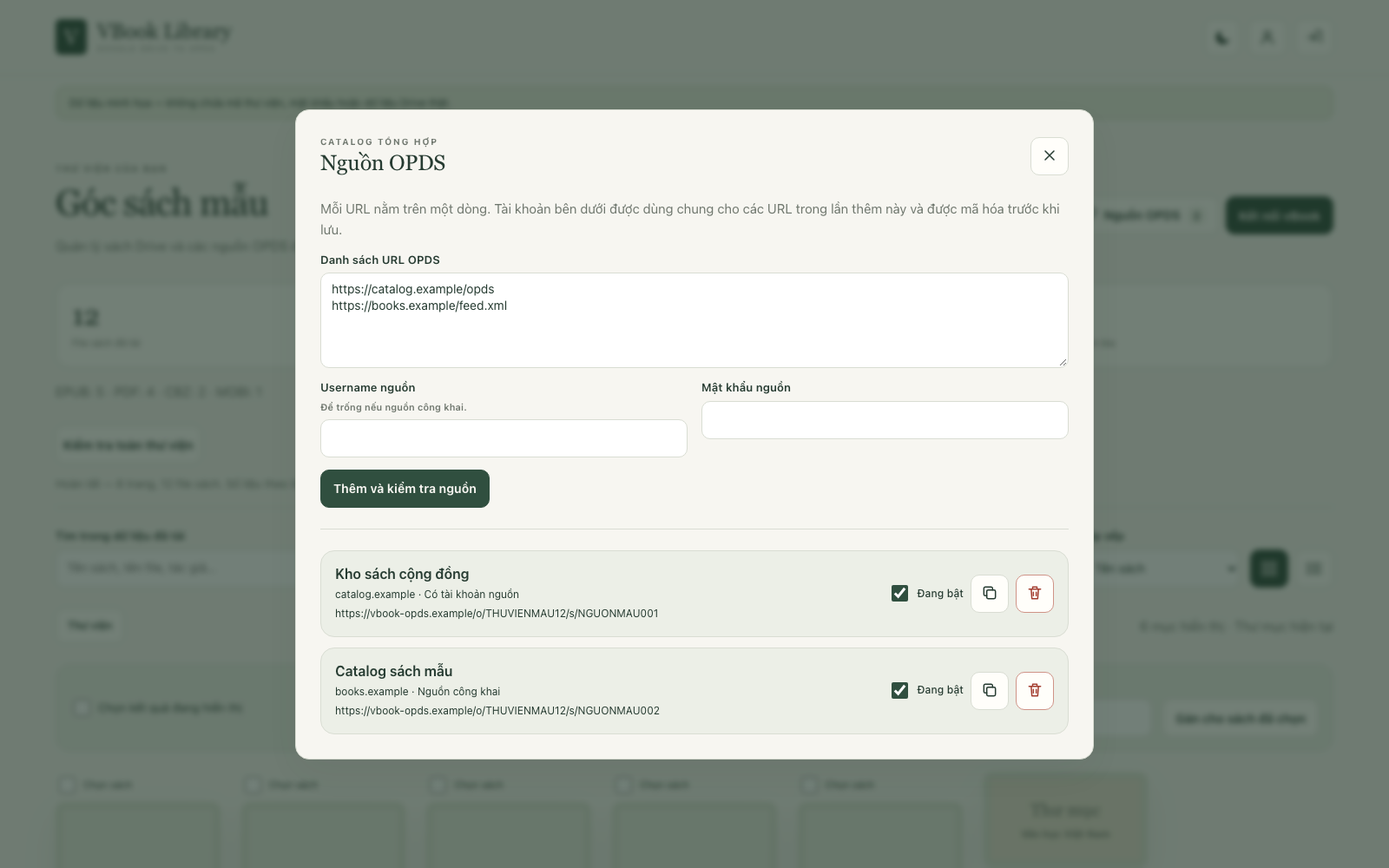
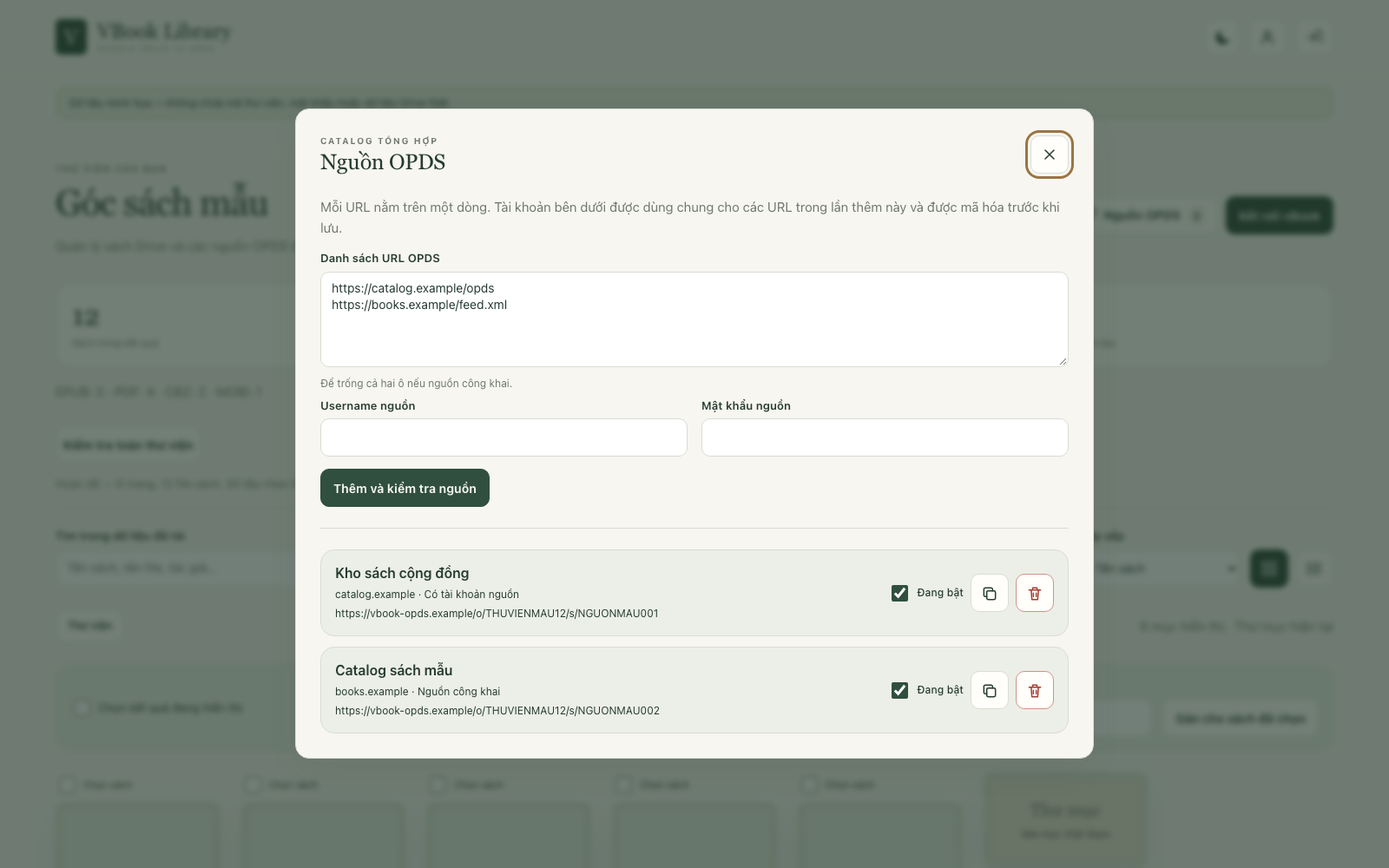
feat: scan books from linked OPDS catalogs

diff --git a/src/library-client.ts b/src/library-client.ts
@@ -66,17 +66,17 @@ function fillFilters(){
 }
 function render(){
  const all=[...source().values()],books=all.filter(b=>!b.isFolder),list=filtered();
- const counts=[['File sách đã tải',books.length],['Định dạng',new Set(books.map(b=>b.format)).size],['Chưa có ngôn ngữ',books.filter(b=>!b.language).length],['Chưa có nguồn bìa',books.filter(b=>!b.coverUrl).length]];
+ const counts=[['Sách trong kết quả',books.length],['Định dạng',new Set(books.map(b=>b.format)).size],['Chưa có ngôn ngữ',books.filter(b=>!b.language).length],['Chưa có nguồn bìa',books.filter(b=>!b.coverUrl).length]];
  $('#stats').innerHTML=counts.map(([label,count])=>'<div class="stat"><strong>'+count.toLocaleString('vi')+'</strong><span>'+label+'</span></div>').join('');
  const formats={};books.forEach(b=>formats[b.format]=(formats[b.format]||0)+1);$('#formats').textContent=Object.entries(formats).map(([k,v])=>k+': '+v).join(' · ');
  $('#result-count').textContent=list.length+' mục hiển thị · '+(scanMode?(scanComplete?'Toàn thư viện, theo lần quét vừa xong':'Kết quả quét chưa đầy đủ'):'Thư mục hiện tại, dữ liệu đã tải');
  $('#breadcrumbs').innerHTML='<button data-crumb="-1">Thư viện</button>'+(scanMode?'<span>/ Kết quả quét</span>':trail.map((t,i)=>'<span>/</span><button data-crumb="'+i+'">'+escapeHtml(t.title)+'</button>').join(''));
- if(!list.length)$('#items').innerHTML='<div class="empty">'+(busy?'Đang lấy danh sách từ Drive…':'Chưa có mục phù hợp. Thử thay đổi bộ lọc hoặc tải thêm dữ liệu.')+'</div>';
- else if(view==='grid')$('#items').innerHTML='<div class="books">'+list.map(b=>'<article class="book '+(b.isFolder?'folder':'')+'">'+(!b.isFolder?'<label class="check"><input type="checkbox" data-select="'+b.key+'" '+(selected.has(b.key)?'checked':'')+'> Chọn sách</label>':'')+'<button class="book-open" data-open="'+b.key+'">'+coverMarkup(b)+'<span class="book-title">'+escapeHtml(b.title)+'</span></button><div class="book-author">'+escapeHtml(b.author|| (b.isFolder?'Mở thư mục':'Chưa có tác giả'))+'</div>'+(!b.isFolder?'<div class="book-meta"><span class="badge">'+escapeHtml(b.format)+'</span><span>'+escapeHtml(langName(b.language))+'</span><span>'+sizeName(b.size)+'</span></div>':'')+'</article>').join('')+'</div>';
- else $('#items').innerHTML='<div class="table-wrap"><table><thead><tr><th>Chọn</th><th>Tên sách / mã mục</th><th>Ngôn ngữ</th><th>Định dạng</th><th>Dung lượng</th><th></th></tr></thead><tbody>'+list.map(b=>'<tr><td>'+(!b.isFolder?'<input aria-label="Chọn '+escapeHtml(b.title)+'" type="checkbox" data-select="'+b.key+'" '+(selected.has(b.key)?'checked':'')+'>':'')+'</td><td><div class="table-title">'+(b.coverUrl?'<img class="thumb" alt="" src="'+escapeHtml(b.coverUrl)+'" referrerpolicy="no-referrer" loading="lazy">':'')+'<div><button data-open="'+b.key+'">'+escapeHtml(b.title)+'</button><small>'+escapeHtml(b.author)+'</small><small>'+escapeHtml(b.key)+'</small></div></div></td><td>'+escapeHtml(b.isFolder?'—':langName(b.language))+'</td><td>'+escapeHtml(b.isFolder?'Thư mục':b.format)+'</td><td>'+sizeName(b.size)+'</td><td><button data-open="'+b.key+'">'+(b.isFolder?'Mở':'Sửa')+'</button></td></tr>').join('')+'</tbody></table></div>';
+ if(!list.length)$('#items').innerHTML='<div class="empty">'+(busy?'Đang lấy danh sách nguồn…':'Chưa có mục phù hợp. Thử thay đổi bộ lọc hoặc quét lại các nguồn.')+'</div>';
+ else if(view==='grid')$('#items').innerHTML='<div class="books">'+list.map(b=>'<article class="book '+(b.isFolder?'folder':'')+'">'+(!b.isFolder&&!b.external?'<label class="check"><input type="checkbox" data-select="'+b.key+'" '+(selected.has(b.key)?'checked':'')+'> Chọn sách</label>':b.external?'<span class="external-label">OPDS</span>':'')+'<button class="book-open" data-open="'+b.key+'">'+coverMarkup(b)+'<span class="book-title">'+escapeHtml(b.title)+'</span></button><div class="book-author">'+escapeHtml(b.author||b.sourceName|| (b.isFolder?'Mở thư mục':'Chưa có tác giả'))+'</div>'+(!b.isFolder?'<div class="book-meta"><span class="badge">'+escapeHtml(b.format)+'</span><span>'+escapeHtml(langName(b.language))+'</span><span>'+sizeName(b.size)+'</span></div>':'')+'</article>').join('')+'</div>';
+ else $('#items').innerHTML='<div class="table-wrap"><table><thead><tr><th>Chọn</th><th>Tên sách / mã mục</th><th>Ngôn ngữ</th><th>Định dạng</th><th>Dung lượng</th><th></th></tr></thead><tbody>'+list.map(b=>'<tr><td>'+(!b.isFolder&&!b.external?'<input aria-label="Chọn '+escapeHtml(b.title)+'" type="checkbox" data-select="'+b.key+'" '+(selected.has(b.key)?'checked':'')+'>':b.external?'<span class="badge">OPDS</span>':'')+'</td><td><div class="table-title">'+(b.coverUrl?'<img class="thumb" alt="" src="'+escapeHtml(b.coverUrl)+'" referrerpolicy="no-referrer" loading="lazy">':'')+'<div><button data-open="'+b.key+'">'+escapeHtml(b.title)+'</button><small>'+escapeHtml(b.author||b.sourceName)+'</small><small>'+escapeHtml(b.key)+'</small></div></div></td><td>'+escapeHtml(b.isFolder?'—':langName(b.language))+'</td><td>'+escapeHtml(b.isFolder?'Thư mục':b.format)+'</td><td>'+sizeName(b.size)+'</td><td><button data-open="'+b.key+'">'+(b.isFolder?'Mở':b.external?'Nguồn OPDS':'Sửa')+'</button></td></tr>').join('')+'</tbody></table></div>';
  attachImageFallback($('#items'));$('#load-more').hidden=scanMode||!nextCursor;$('#load-more').disabled=busy;
  $('#selected-count').textContent=selected.size+' đã chọn';$('#bulk-apply').disabled=!selected.size||busy;
- const visibleBooks=list.filter(b=>!b.isFolder);$('#select-all').checked=visibleBooks.length>0&&visibleBooks.every(b=>selected.has(b.key));
+ const visibleBooks=list.filter(b=>!b.isFolder&&!b.external);$('#select-all').checked=visibleBooks.length>0&&visibleBooks.every(b=>selected.has(b.key));
  $('#select-all').indeterminate=visibleBooks.some(b=>selected.has(b.key))&&!$('#select-all').checked;
 }
 async function browse(append){
@@ -96,14 +96,14 @@ async function scanLoop(){
  try{
   while(epoch===scanEpoch&&scanRunning&&scanQueue.length&&library&&library.id===currentLibrary){
    const job=scanQueue[0];scanController=new AbortController();
-   const data=await api(endpoint('/scan'),'POST',{...(job.ref?{folder:job.ref}:{}),...(job.cursor?{cursor:job.cursor}:{})},scanController.signal);
+   const data=await api(endpoint('/scan'),'POST',{...(job.sourceId?{sourceId:job.sourceId}:{}),...(job.ref?(job.sourceId?{target:job.ref}:{folder:job.ref}):{}),...(job.cursor?{cursor:job.cursor}:{})},scanController.signal);
    if(epoch!==scanEpoch||!scanRunning||!library||library.id!==currentLibrary)break;
    scanSeen.add(data.folderKey);scanQueue.shift();scanPages++;
    data.items.forEach(b=>{
-    if(b.isFolder){if(!scanSeen.has(b.key)){scanSeen.add(b.key);scanQueue.push({ref:b.ref});}}
+    if(b.isFolder){if(!scanSeen.has(b.key)){scanSeen.add(b.key);scanQueue.push({ref:b.ref,...(b.sourceId?{sourceId:b.sourceId}:{})});}}
     else scanItems.set(b.key,b);
    });
-   if(data.nextCursor)scanQueue.unshift({ref:job.ref,cursor:data.nextCursor});
+   if(data.nextCursor)scanQueue.unshift({...job,cursor:data.nextCursor});
    scanComplete=scanQueue.length===0;
    $('#scan-status').textContent=(scanComplete?'Hoàn tất — ':'Đang quét — ')+scanPages+' trang, '+scanItems.size+' file sách. '+(scanComplete?'Số liệu theo lần quét này; tải lại trang sẽ cần quét lại.':scanQueue.length+' lượt thư mục/trang còn chờ.');
    if(scanMode){fillFilters();render();}scanControls();
@@ -114,6 +114,7 @@ async function scanLoop(){
 function openBook(key){
  const b=source().get(key);if(!b)return;
  if(b.isFolder){pauseScan();trail.push({title:b.title,ref:b.ref});browse(false);return;}
+ if(b.external){notice('Sách này thuộc nguồn OPDS “'+(b.sourceName||'bên ngoài')+'”. Metadata được đọc từ nguồn và không chỉnh sửa tại đây.');return;}
  editing=b;const f=$('#edit-form');f.reset();['title','author','language','category','description','coverUrl'].forEach(k=>f.elements[k].value=b.overrides[k]||'');f.elements.title.placeholder=b.name;
  $('#edit-source').textContent=b.name+' · '+b.format+' · '+sizeName(b.size);$('#edit-error').textContent='';previewCover();$('#editor').showModal();
 }
@@ -153,10 +154,10 @@ $('#source-list').addEventListener('change',async event=>{const input=event.targ
 $('#search').addEventListener('input',render);['language','format','sort'].forEach(id=>$('#'+id).addEventListener('change',render));
 ['grid','table'].forEach(mode=>$('#view-'+mode).addEventListener('click',()=>{view=mode;['grid','table'].forEach(m=>$('#view-'+m).setAttribute('aria-pressed',String(m===mode)));render();}));
 $('#load-more').addEventListener('click',()=>{if(!busy)browse(true);});$('#reload-folder').addEventListener('click',()=>{pauseScan();trail=[];browse(false);});
-$('#scan-start').addEventListener('click',()=>{if(scanPages&&!confirm('Quét lại toàn thư viện từ đầu?'))return;scanItems.clear();scanSeen.clear();scanQueue=[{}];scanPages=0;scanComplete=false;scanLoop();});
+$('#scan-start').addEventListener('click',()=>{if(scanPages&&!confirm('Quét lại toàn thư viện từ đầu?'))return;scanItems.clear();scanSeen.clear();scanQueue=[...(library.hasDrive?[{}]:[]),...sources.filter(source=>source.enabled).map(source=>({sourceId:source.id}))];scanPages=0;scanComplete=false;if(!scanQueue.length){$('#scan-status').textContent='Chưa có nguồn Drive hoặc OPDS đang bật để quét.';return;}scanLoop();});
 $('#scan-pause').addEventListener('click',()=>{pauseScan();$('#scan-status').textContent='Đã tạm dừng. Kết quả chưa đầy đủ; có thể tiếp tục trong phiên trang này.';});$('#scan-resume').addEventListener('click',scanLoop);
 $('#scan-results').addEventListener('click',()=>{requestEpoch++;busy=false;scanMode=true;selected.clear();fillFilters();render();});
-$('#select-all').addEventListener('change',event=>{filtered().filter(b=>!b.isFolder).forEach(b=>event.target.checked?selected.add(b.key):selected.delete(b.key));render();});
+$('#select-all').addEventListener('change',event=>{filtered().filter(b=>!b.isFolder&&!b.external).forEach(b=>event.target.checked?selected.add(b.key):selected.delete(b.key));render();});
 $('#bulk-apply').addEventListener('click',async()=>{
  const books=[...selected].map(k=>source().get(k)).filter(Boolean);if(!books.length)return;busy=true;render();let done=0;
  try{for(let i=0;i<books.length;i+=50){const batch=books.slice(i,i+50);const data=await api(endpoint('/language'),'POST',{refs:batch.map(b=>b.ref),language:$('#bulk-language').value.trim()});batch.forEach(b=>{const o={...b.overrides};if(data.language)o.language=data.language;else delete o.language;applyOverrides(b.key,o);selected.delete(b.key);});done+=batch.length;}notice('Đã cập nhật ngôn ngữ cho '+done+' sách.');}

diff --git a/src/opds-scan.ts b/src/opds-scan.ts
@@ -1,0 +1,112 @@
+import { LibraryItem, fileExtension } from './library-data';
+import { bookKey, fail, protectData, revealData } from './library-security';
+import { fetchOpds, OpdsSourceRow, safeOpdsUrl, sourceConfig } from './opds-source';
+
+interface ParsedLink { href: string; rel: string[]; type: string; length?: string }
+interface ParsedBook { id: string; title: string; author: string; language: string; category: string; description: string; modified: string; links: ParsedLink[]; cover: string }
+interface ParsedFeed { navigation: { title: string; href: string }[]; books: ParsedBook[]; next: string }
+export interface ScannedOpdsItem extends LibraryItem { external?: boolean; sourceId?: string; sourceName?: string }
+
+const decodeXml = (value: string) => value
+  .replace(/<!\[CDATA\[([\s\S]*?)\]\]>/g, '$1')
+  .replace(/&#x([0-9a-f]+);/gi, (_, n) => String.fromCodePoint(parseInt(n, 16)))
+  .replace(/&#(\d+);/g, (_, n) => String.fromCodePoint(Number(n)))
+  .replace(/&amp;/g, '&').replace(/&quot;/g, '"').replace(/&#39;|&apos;/g, "'").replace(/&lt;/g, '<').replace(/&gt;/g, '>');
+const text = (xml: string, tag: string): string => decodeXml(xml.match(new RegExp(`<(?:[\\w-]+:)?${tag}(?:\\s[^>]*)?>([\\s\\S]*?)<\\/(?:[\\w-]+:)?${tag}>`, 'i'))?.[1]?.replace(/<[^>]+>/g, '').trim() || '');
+const attrs = (tag: string): Record<string, string> => Object.fromEntries([...tag.matchAll(/([\w:-]+)\s*=\s*(['"])(.*?)\2/g)].map(match => [match[1].toLowerCase(), decodeXml(match[3])]));
+const rels = (value: unknown): string[] => Array.isArray(value) ? value.map(String) : String(value || '').split(/\s+/).filter(Boolean);
+const linkTags = (xml: string): ParsedLink[] => [...xml.matchAll(/<(?:[\w-]+:)?link\b[^>]*>/gi)].map(match => {
+  const a = attrs(match[0]); return { href: a.href || '', rel: rels(a.rel), type: a.type || '', length: a.length };
+});
+const isAcquisition = (link: ParsedLink) => link.rel.some(rel => rel.includes('acquisition'));
+const isNavigation = (link: ParsedLink) => link.rel.some(rel => ['subsection','collection','http://opds-spec.org/shelf'].includes(rel));
+const safeDate = (value: string): string => new Date(Date.parse(value) || Date.now()).toISOString();
+const plainText = (value: unknown): string => {
+  if (typeof value === 'string') return value.replace(/<[^>]+>/g, '').trim();
+  if (value && typeof value === 'object') return plainText((value as Record<string, unknown>).value || (value as Record<string, unknown>).name);
+  return '';
+};
+
+function parseXml(body: string): ParsedFeed {
+  const entries = [...body.matchAll(/<(?:[\w-]+:)?entry\b[^>]*>([\s\S]*?)<\/(?:[\w-]+:)?entry>/gi)].map(match => match[1]);
+  const navigation: ParsedFeed['navigation'] = [], books: ParsedBook[] = [];
+  for (const entry of entries) {
+    const links = linkTags(entry), acquisition = links.find(isAcquisition), navigationLink = links.find(isNavigation);
+    if (acquisition) books.push({
+      id: text(entry, 'id') || acquisition.href, title: text(entry, 'title') || 'Sách chưa có tên',
+      author: text(entry, 'name'), language: text(entry, 'language'),
+      category: attrs(entry.match(/<(?:[\w-]+:)?category\b[^>]*>/i)?.[0] || '').label || '',
+      description: text(entry, 'summary') || text(entry, 'content'), modified: text(entry, 'updated'), links,
+      cover: links.find(link => link.rel.some(rel => /image|thumbnail/.test(rel)))?.href || '',
+    });
+    else if (navigationLink?.href) navigation.push({ title: text(entry, 'title') || 'Danh mục OPDS', href: navigationLink.href });
+  }
+  const withoutEntries = body.replace(/<(?:[\w-]+:)?entry\b[^>]*>[\s\S]*?<\/(?:[\w-]+:)?entry>/gi, '');
+  const feedLinks = linkTags(withoutEntries);
+  for (const link of feedLinks.filter(isNavigation)) if (link.href) navigation.push({ title: 'Danh mục OPDS', href: link.href });
+  return { navigation, books, next: feedLinks.find(link => link.rel.includes('next'))?.href || '' };
+}
+
+function parseJson(body: string): ParsedFeed {
+  const data = JSON.parse(body) as Record<string, any>;
+  const groups = Array.isArray(data.groups) ? data.groups : [];
+  const navigation = [...(Array.isArray(data.navigation) ? data.navigation : []), ...groups.flatMap(group => Array.isArray(group.navigation) ? group.navigation : [])]
+    .filter(item => item?.href).map(item => ({ title: plainText(item.title) || 'Danh mục OPDS', href: String(item.href) }));
+  const publications = [...(Array.isArray(data.publications) ? data.publications : []), ...groups.flatMap(group => Array.isArray(group.publications) ? group.publications : [])];
+  const books = publications.map(publication => {
+    const metadata = publication?.metadata || {};
+    const links: ParsedLink[] = (Array.isArray(publication?.links) ? publication.links : []).map((link: any) => ({ href: String(link?.href || ''), rel: rels(link?.rel), type: String(link?.type || ''), length: link?.length === undefined ? undefined : String(link.length) }));
+    const images = Array.isArray(publication?.images) ? publication.images : [];
+    const author = Array.isArray(metadata.author) ? metadata.author.map(plainText).filter(Boolean).join(', ') : plainText(metadata.author);
+    const language = Array.isArray(metadata.language) ? String(metadata.language[0] || '') : String(metadata.language || '');
+    const category = Array.isArray(metadata.subject) ? plainText(metadata.subject[0]) : plainText(metadata.subject);
+    return { id: String(metadata.identifier || links.find(isAcquisition)?.href || metadata.title || ''), title: plainText(metadata.title) || 'Sách chưa có tên', author, language, category, description: plainText(metadata.description), modified: String(metadata.modified || ''), links, cover: String(images[0]?.href || '') };
+  }).filter(book => book.links.some(isAcquisition));
+  const topLinks: ParsedLink[] = (Array.isArray(data.links) ? data.links : []).map((link: any) => ({ href: String(link?.href || ''), rel: rels(link?.rel), type: String(link?.type || '') }));
+  return { navigation, books, next: topLinks.find(link => link.rel.includes('next'))?.href || '' };
+}
+
+const formatOf = (link: ParsedLink): string => {
+  let ext = ''; try { ext = fileExtension(new URL(link.href, 'https://invalid.example').pathname).slice(1).toUpperCase(); } catch {}
+  if (ext) return ext === 'ZIP' && /comic|cbz/i.test(link.type) ? 'CBZ' : ext;
+  if (/epub/i.test(link.type)) return 'EPUB'; if (/pdf/i.test(link.type)) return 'PDF'; if (/mobi/i.test(link.type)) return 'MOBI';
+  return 'BOOK';
+};
+const resolved = (href: string, base: URL): URL | null => { if (!href) return null; try { return safeOpdsUrl(new URL(href, base).href); } catch { return null; } };
+
+export async function scanOpdsSource(secret: string, libraryId: string, row: OpdsSourceRow, targetToken = '') {
+  const config = await sourceConfig(secret, row), root = safeOpdsUrl(config.url);
+  let target = root;
+  if (targetToken) {
+    const value = await revealData<{url:string}>(secret, `opds-scan:${libraryId}:${row.id}`, targetToken);
+    target = safeOpdsUrl(String(value.url || ''));
+  }
+  if (target.origin !== root.origin) fail(403, 'Trang OPDS không thuộc nguồn đã chọn.');
+  const response = await fetchOpds(config, target);
+  if (!response.ok) fail(503, `Nguồn OPDS phản hồi HTTP ${response.status}.`);
+  const length = Number(response.headers.get('content-length') || 0); if (length > 2_000_000) fail(413, 'Feed OPDS lớn hơn 2 MB.');
+  const bytes = await response.arrayBuffer(); if (bytes.byteLength > 2_000_000) fail(413, 'Feed OPDS lớn hơn 2 MB.');
+  const body = new TextDecoder().decode(bytes), contentType = response.headers.get('content-type') || '';
+  let feed: ParsedFeed;
+  try { feed = contentType.includes('json') || body.trimStart().startsWith('{') ? parseJson(body) : parseXml(body); }
+  catch { return fail(503, 'Không đọc được danh sách sách từ nguồn OPDS.'); }
+  const base = new URL(response.url || target.href);
+  const navigation: ScannedOpdsItem[] = [];
+  for (const item of feed.navigation) {
+    const url = resolved(item.href, base); if (!url || url.origin !== root.origin) continue;
+    const key = await bookKey(secret, libraryId, `opds-page:${row.id}:${url.href}`);
+    navigation.push({ key, ref: await protectData(secret, `opds-scan:${libraryId}:${row.id}`, { url: url.href }), name: item.title, title: item.title, opdsTitle: item.title, isFolder: true, format: 'OPDS', mimeType: 'application/atom+xml', modified: new Date().toISOString(), author: row.name, language: '', category: '', description: '', coverUrl: '', overrides: {}, sourceCoverUrl: '', external: true, sourceId: row.id, sourceName: row.name });
+  }
+  const books: ScannedOpdsItem[] = [];
+  for (const book of feed.books) {
+    const acquisition = book.links.find(isAcquisition)!;
+    const key = await bookKey(secret, libraryId, `opds-book:${row.id}:${book.id || acquisition.href}`);
+    const cover = resolved(book.cover, base)?.href || '';
+    books.push({ key, ref: '', name: book.title, title: book.title, opdsTitle: book.title, isFolder: false, format: formatOf(acquisition), mimeType: acquisition.type || 'application/octet-stream', size: acquisition.length, modified: safeDate(book.modified), author: book.author, language: book.language, category: book.category, description: book.description, coverUrl: cover, overrides: {}, sourceCoverUrl: cover, external: true, sourceId: row.id, sourceName: row.name });
+  }
+  const next = resolved(feed.next, base);
+  return {
+    items: [...navigation, ...books], folderKey: await bookKey(secret, libraryId, `opds-page:${row.id}:${base.href}`),
+    nextCursor: next && next.origin === root.origin ? await protectData(secret, `opds-scan:${libraryId}:${row.id}`, { url: next.href }) : null,
+  };
+}

diff --git a/src/library-ui.ts b/src/library-ui.ts
@@ -17,7 +17,7 @@ export const libraryHtml = String.raw`<!doctype html>
 <footer>VBook Library · Metadata riêng cho từng thư viện · Nguồn sách do bạn kiểm soát</footer></main>
 <dialog id="editor"><form id="edit-form"><div class="dialog-head"><h2>Thông tin sách</h2><button class="icon-button" type="button" data-close="editor" aria-label="Đóng" title="Đóng"><svg class="icon" viewBox="0 0 24 24" aria-hidden="true"><path d="M6 6l12 12M18 6L6 18"/></svg></button></div><p id="edit-source" class="muted"></p><div class="editor-grid"><div><div class="cover-preview" id="cover-preview"></div><p class="muted">Bìa lấy từ URL ảnh của bạn hoặc thumbnail Drive.</p></div><div><label>Tên hiển thị<input name="title" maxlength="240"></label><label>Tác giả<input name="author" maxlength="240"></label><div class="form-grid"><label>Ngôn ngữ<input name="language" list="languages" maxlength="35" placeholder="Chưa rõ"></label><label>Thể loại<input name="category" maxlength="120"></label></div><label>Mô tả<textarea name="description" maxlength="5000" rows="4"></textarea></label><label>URL bìa HTTPS<input name="coverUrl" type="url" maxlength="2048" placeholder="https://…"></label></div></div><p class="muted">Để trống một trường để dùng dữ liệu nguồn. Chỉnh sửa chỉ áp dụng trong thư viện này, không thay đổi file Drive.</p><p id="edit-error" class="error" role="alert"></p><div class="dialog-actions"><button type="button" id="reset-book">Khôi phục dữ liệu nguồn</button><button class="primary">Lưu thông tin</button></div></form></dialog>
 <dialog id="connection"><div class="dialog-head"><h2>Kết nối vBook</h2><button class="icon-button" data-close="connection" aria-label="Đóng" title="Đóng"><svg class="icon" viewBox="0 0 24 24" aria-hidden="true"><path d="M6 6l12 12M18 6L6 18"/></svg></button></div><label>URL danh mục<input id="opds-url" readonly></label><button id="copy-opds">Sao chép link OPDS</button><div id="secret-values"></div><p class="muted">Mật khẩu OPDS chỉ hiển thị khi cấp mới. Nếu quên, tạo lại và cập nhật trong vBook.</p><button id="rotate-opds">Tạo lại mật khẩu OPDS</button><ol><li>Mở vBook → Extension Cloud → OPDS.</li><li>Dán link vào URL danh mục.</li><li>Nhập tên <strong>reader</strong> và mật khẩu OPDS được cấp, rồi lưu.</li></ol><p class="muted">OPDS chỉ có quyền đọc. Tìm kiếm trên vBook dùng tên file Drive, tối đa 3 cấp và 35 thư mục con. Sau khi sửa thông tin, làm mới thư viện trong vBook.</p></dialog>
-<dialog id="sources"><div class="dialog-head"><div><p class="eyebrow">CATALOG TỔNG HỢP</p><h2>Nguồn OPDS</h2></div><button class="icon-button" data-close="sources" aria-label="Đóng" title="Đóng"><svg class="icon" viewBox="0 0 24 24" aria-hidden="true"><path d="M6 6l12 12M18 6L6 18"/></svg></button></div><p class="muted">Mỗi URL nằm trên một dòng. Tài khoản bên dưới được dùng chung cho các URL trong lần thêm này và được mã hóa trước khi lưu.</p><form id="source-form"><label>Danh sách URL OPDS<textarea name="urls" rows="4" maxlength="12000" required placeholder="https://catalog.example/opds&#10;https://books.example/feed.xml"></textarea></label><div class="form-grid"><label>Username nguồn <small>Để trống nếu nguồn công khai.</small><input name="username" maxlength="256" autocomplete="off"></label><label>Mật khẩu nguồn<input name="password" type="password" maxlength="512" autocomplete="new-password"></label></div><button class="primary">Thêm và kiểm tra nguồn</button></form><hr><div id="source-list" class="source-list" aria-live="polite"><p class="muted">Chưa có nguồn OPDS.</p></div></dialog>
+<dialog id="sources"><div class="dialog-head"><div><p class="eyebrow">CATALOG TỔNG HỢP</p><h2>Nguồn OPDS</h2></div><button class="icon-button" data-close="sources" aria-label="Đóng" title="Đóng"><svg class="icon" viewBox="0 0 24 24" aria-hidden="true"><path d="M6 6l12 12M18 6L6 18"/></svg></button></div><p class="muted">Mỗi URL nằm trên một dòng. Tài khoản bên dưới được dùng chung cho các URL trong lần thêm này và được mã hóa trước khi lưu.</p><form id="source-form"><label>Danh sách URL OPDS<textarea name="urls" rows="4" maxlength="12000" required placeholder="https://catalog.example/opds&#10;https://books.example/feed.xml"></textarea></label><p class="source-auth-help muted">Để trống cả hai ô nếu nguồn công khai.</p><div class="form-grid source-credentials"><label>Username nguồn<input name="username" maxlength="256" autocomplete="off"></label><label>Mật khẩu nguồn<input name="password" type="password" maxlength="512" autocomplete="new-password"></label></div><button class="primary">Thêm và kiểm tra nguồn</button></form><hr><div id="source-list" class="source-list" aria-live="polite"><p class="muted">Chưa có nguồn OPDS.</p></div></dialog>
 <dialog id="account"><div class="dialog-head"><h2>Tài khoản thư viện</h2><button class="icon-button" data-close="account" aria-label="Đóng" title="Đóng"><svg class="icon" viewBox="0 0 24 24" aria-hidden="true"><path d="M6 6l12 12M18 6L6 18"/></svg></button></div><p id="account-info"></p><p class="muted">Lưu mã thư viện và mã khôi phục ở nơi an toàn. Không có khôi phục qua email.</p><form id="password-form"><label>Mật khẩu hiện tại<input name="currentPassword" type="password" required maxlength="256" autocomplete="current-password"></label><label>Mật khẩu mới<input name="password" type="password" required minlength="12" maxlength="256" autocomplete="new-password"></label><button>Đổi mật khẩu</button></form><hr><form id="delete-form"><h3>Xóa thư viện</h3><p class="muted">Xóa tài khoản và các chỉnh sửa đã lưu. File Drive được giữ nguyên.</p><label>Nhập mật khẩu để xác nhận<input name="password" type="password" required maxlength="256" autocomplete="current-password"></label><button class="danger">Xóa thư viện</button></form></dialog>
 <datalist id="languages"><option value="vi">Tiếng Việt</option><option value="en">English</option><option value="fr">Français</option><option value="zh-Hans">中文</option><option value="ja">日本語</option><option value="ko">한국어</option></datalist></body></html>`;
 
@@ -269,6 +269,7 @@ input[readonly] { background: var(--soft); }
 .books { display: grid; grid-template-columns: repeat(auto-fill, minmax(min(135px, 43vw), 1fr)); gap: var(--space-5) var(--space-3); margin: var(--space-5) 0; }
 .book { min-width: 0; position: relative; }
 .book .check { min-height: 28px; margin-bottom: 6px; font-size: 11px; }
+.external-label { display: inline-flex; min-height: 28px; align-items: center; color: var(--muted); font-size: 10px; font-weight: 700; letter-spacing: .08em; }
 .book-open { width: 100%; min-height: 0; padding: 0; border: 0; background: none; text-align: left; }
 .book-open:hover { background: none; }
 .cover {
@@ -331,6 +332,8 @@ dialog::backdrop { background: var(--backdrop); backdrop-filter: blur(3px); }
 .secret { margin: var(--space-4) 0; padding: var(--space-4); overflow-wrap: anywhere; background: var(--soft); border-radius: var(--radius-control); }
 .secret code { display: block; user-select: all; font-size: 13px; }
 .source-list { display: grid; gap: var(--space-3); }
+.source-auth-help { margin: -5px 0 var(--space-2); font-size: 12px; }
+.source-credentials label { justify-content: flex-end; }
 .source-row { display: grid; grid-template-columns: minmax(0, 1fr); gap: var(--space-3); align-items: center; padding: var(--space-4); background: var(--soft); border: 1px solid var(--line); border-radius: var(--radius-panel); }
 .source-row h3 { margin: 0; font: 600 16px/1.35 var(--sans); overflow-wrap: anywhere; }
 .source-row p { margin: 3px 0 0; font-size: 12px; overflow-wrap: anywhere; }

diff --git a/test/library.test.ts b/test/library.test.ts
@@ -100,6 +100,7 @@ test('managed UI is available without DB; legacy endpoints remain separate; JS p
   assert.match(libraryCss,/--control-height: 44px/);
   assert.match(libraryCss,/\.view-toggle \{[^}]*height: var\(--control-height\)/s);
   assert.match(libraryCss,/\.shelf-head nav \{[^}]*justify-content: flex-start/s);
+  assert.match(libraryCss,/\.source-credentials label \{[^}]*justify-content: flex-end/s);
   const uiDocument=new JSDOM(libraryHtml).window.document;
   for(const button of uiDocument.querySelectorAll('.icon-button')) assert.ok(button.getAttribute('aria-label'));
   new Script(libraryClient);
@@ -173,6 +174,11 @@ test('external OPDS sources aggregate behind short authenticated proxy links', a
   const bookUrl=new URL(acquisition.getAttribute('href')!,'https://library.example');
   const book=await h.req(bookUrl.pathname+bookUrl.search,'GET',undefined,auth(a));assert.equal(book.status,200);assert.equal(await book.text(),'fake-epub');
   parserWindow.close();
+
+  const scanned=await h.req(base(a)+'/scan','POST',{sourceId:source.id});assert.equal(scanned.status,200);const scan=await scanned.json() as any;
+  const scannedBook=scan.items.find((item:any)=>!item.isFolder),scannedFolder=scan.items.find((item:any)=>item.isFolder);
+  assert.equal(scannedBook.title,'Sách mẫu');assert.equal(scannedBook.format,'EPUB');assert.equal(scannedBook.external,true);assert.equal(scannedBook.sourceName,'Kho sách được chia sẻ');
+  assert.equal(scan.nextCursor,null);assert.ok(scannedFolder.ref);const child=await h.req(base(a)+'/scan','POST',{sourceId:source.id,target:scannedFolder.ref});assert.equal(child.status,200);const childData=await child.json() as any;assert.equal(childData.items.some((item:any)=>item.title==='Sách mẫu'),true);assert.equal(childData.nextCursor,null);assert.equal(childData.folderKey,scannedFolder.key);assert.equal(childData.items.find((item:any)=>item.isFolder).key,scannedFolder.key);
 
   let changed=await h.req(base(a)+'/sources/'+source.id,'PATCH',{enabled:false});assert.equal(changed.status,200);
   assert.equal((await changed.json() as any).sources[0].enabled,false);
@@ -282,7 +288,7 @@ test('UI forms, edit/reset, filters, bulk selection, full scan and logout run ag
     if(r.headers.has('set-cookie'))cookie=r.headers.get('set-cookie')!.split(';')[0];
     return r;
   }) as any;
-  const wait=async(predicate:()=>boolean)=>{for(let i=0;i<300;i++){if(predicate())return;await new Promise(r=>setTimeout(r,5));}assert.fail('UI condition timed out: '+d.querySelector('#notice')!.textContent+' / '+errors.map(String).join(';'));};
+  const wait=async(predicate:()=>boolean)=>{for(let i=0;i<300;i++){if(predicate())return;await new Promise(r=>setTimeout(r,5));}assert.fail('UI condition timed out: '+d.querySelector('#notice')!.textContent+' / scan: '+d.querySelector('#scan-status')!.textContent+' / '+errors.map(String).join(';'));};
   const field=(form:string,name:string,value:string)=>{(d.querySelector(form) as HTMLFormElement).elements.namedItem(name).value=value;};
   const submit=(id:string)=>d.querySelector(id)!.dispatchEvent(new w.Event('submit',{bubbles:true,cancelable:true}));
   const click=(id:string)=>(d.querySelector(id) as HTMLButtonElement).click();
@@ -310,7 +316,7 @@ test('UI forms, edit/reset, filters, bulk selection, full scan and logout run ag
     search.value='';search.dispatchEvent(new w.Event('input'));assert.ok(!d.querySelector('#items')!.textContent!.includes('Tên sửa UI'));
     holdScan=true;click('#scan-start');await wait(()=>scanStarted);click('#scan-pause');holdScan=false;click('#scan-resume');
     await wait(()=>d.querySelector('#scan-status')!.textContent!.startsWith('Hoàn tất'));
-    assert.match(d.querySelector('#scan-status')!.textContent!,/6 file sách/);
+    assert.match(d.querySelector('#scan-status')!.textContent!,/7 file sách/);assert.ok(d.querySelector('#items')!.textContent!.includes('Sách mẫu'));assert.ok(d.querySelector('#items')!.textContent!.includes('OPDS'));
     click('#logout');await wait(()=>!(d.querySelector('#welcome') as HTMLElement).hidden);
     assert.equal(d.querySelector('#secret-values')!.textContent,'');assert.equal(d.querySelectorAll('#items .book').length,0);
     assert.deepEqual(errors,[]);

diff --git a/src/library.ts b/src/library.ts
@@ -8,6 +8,7 @@ import { Library, getLibrary, presentItems, saveOverride, validateOverrides } fr
 import { base64url, bookKey, checkPassword, digest, equal, fail, hashPassword, passwordInput, randomToken, revealData, seal, stringInput, unseal } from './library-security';
 import { managedFeed, XML_TYPE } from './library-feed';
 import { fetchOpds, OpdsSourceConfig, OpdsSourceRow, rewriteOpdsBody, safeOpdsUrl, sourceConfig, sourceToken, validateOpds } from './opds-source';
+import { scanOpdsSource } from './opds-scan';
 
 export interface LibraryEnv { DB: D1Database; MASK_SECRET: string; GOOGLE_API_KEY: string }
 interface Session { library_id: string; csrf: string; expires_at: number }
@@ -80,7 +81,7 @@ async function session(c: C): Promise<Session> {
   if (!['GET', 'HEAD'].includes(c.req.method) && !equal(c.req.header('X-CSRF-Token') || '', row.csrf)) fail(403, 'Phiên thao tác không hợp lệ. Hãy tải lại trang.');
   return row;
 }
-function publicLibrary(l: Library) { return { id: l.id, shortId: l.short_id, name: l.name, username: l.username, createdAt: l.created_at }; }
+function publicLibrary(l: Library) { return { id: l.id, shortId: l.short_id, name: l.name, username: l.username, hasDrive: Boolean(l.root_token), createdAt: l.created_at }; }
 function credentials(c: C, library: Pick<Library, 'id' | 'short_id'>, password: string) {
   const path = library.short_id ? `/o/${library.short_id}` : `/library/${library.id}/opds`;
   return { url: `${new URL(c.req.url).origin}${path}`, username: 'reader', password };
@@ -149,7 +150,7 @@ api.post('/api/libraries', async c => {
   await c.env.DB.batch(statements);
   const csrf = await startSession(c, id, 0);
   const library = { id, short_id: shortId };
-  return c.json({ library: { id, shortId, name, username }, csrf, recoveryCode: recovery, opds: credentials(c, library, opds) }, 201);
+  return c.json({ library: { id, shortId, name, username, hasDrive: Boolean(folder) }, csrf, recoveryCode: recovery, opds: credentials(c, library, opds) }, 201);
 });
 api.post('/api/session', async c => {
   await rateLimit(c, 'login');
@@ -245,6 +246,18 @@ api.get('/api/libraries/:id/items', async c => c.json(await readPage(c, c.get('l
 // Client owns BFS queue and deduplication. One request reads one Drive page; no tree-size cap.
 api.post('/api/libraries/:id/scan', async c => {
   const body = await jsonBody(c);
+  if (body.sourceId !== undefined) {
+    const sourceId = stringInput(body.sourceId, 80, 'Mã nguồn OPDS', true);
+    const target = body.target ?? body.cursor;
+    const targetToken = target === undefined ? '' : stringInput(target, 16000, 'Trang OPDS');
+    const row = await c.env.DB.prepare('SELECT * FROM opds_sources WHERE id = ? AND library_id = ? AND enabled = 1').bind(sourceId, c.get('library').id).first<OpdsSourceRow>();
+    if (!row) fail(404, 'Không tìm thấy nguồn OPDS hoặc nguồn đang tắt.');
+    try { return c.json(await scanOpdsSource(c.env.MASK_SECRET, c.get('library').id, row!, targetToken)); }
+    catch (error) {
+      if (error instanceof HTTPException) throw error;
+      return fail(503, 'Không kết nối được nguồn OPDS trong lúc quét. Hãy thử lại hoặc tắt nguồn lỗi.');
+    }
+  }
   const folder = body.folder === undefined ? undefined : stringInput(body.folder, 16000, 'Thư mục');
   const cursor = body.cursor === undefined ? undefined : stringInput(body.cursor, 16000, 'Con trỏ');
   return c.json(await readPage(c, c.get('library'), { folder, cursor }));

diff --git a/README.md b/README.md
@@ -1,4 +1,4 @@
-# VBook Library / OPDS Gateway — v1.6.2
+# VBook Library / OPDS Gateway — v1.7.0
 
 Giao diện quản lý thư viện Google Drive và các catalog OPDS được chia sẻ dành cho vBook. Web có thể gộp hai loại nguồn vào một link OPDS ngắn, có tài khoản riêng.
 
@@ -9,6 +9,7 @@ Giao diện quản lý thư viện Google Drive và các catalog OPDS được c
 - Tạo thư viện bằng một thư mục Drive, danh sách OPDS có sẵn, hoặc cả hai.
 - Thêm tối đa 10 URL OPDS mỗi lần; bật/tắt, sao chép link proxy ngắn hoặc xóa từng nguồn.
 - Gộp sách Drive và các catalog OPDS vào một URL `/o/:short_id`; credential của nguồn được mã hóa trước khi lưu.
+- Quét đồng thời Drive và các nguồn OPDS đang bật, đi theo catalog con/phân trang và gom sách vào cùng kết quả tìm/lọc trên web.
 - Kệ bìa / bảng danh sách, duyệt thư mục và phân trang.
 - Tìm/lọc trong dữ liệu đã tải theo tên, tác giả, ngôn ngữ, định dạng.
 - Quét toàn thư viện theo từng trang, không giới hạn 35 thư mục hoặc 3 cấp; tạm dừng/thử lại, đếm file duy nhất và hiển thị tiến độ.
@@ -104,6 +105,8 @@ Tài khoản nguồn không hiển thị lại trên giao diện. Nếu cần th
 
 Bạn có thể duyệt thư mục, đổi giữa kệ và bảng, tìm/lọc sách, sửa metadata, thêm URL bìa HTTPS và gán ngôn ngữ hàng loạt. Bấm **Kiểm tra toàn thư viện** để quét mọi thư mục con; không đóng hoặc tải lại trang khi đang quét.
 
+Nút **Kiểm tra toàn thư viện** cũng quét các nguồn OPDS đang bật. Sách từ OPDS có nhãn **OPDS**, được đưa vào thống kê và bộ lọc chung; metadata này do nguồn bên ngoài cung cấp nên chỉ đọc trên trang quản lý.
+
 Các thay đổi chỉ tác động đến thông tin hiển thị trong thư viện. Tên và nội dung file trên Drive không bị sửa.
 
 Nếu thư viện chỉ có nguồn OPDS, khu vực sách Drive sẽ trống; đây không phải lỗi.
@@ -162,6 +165,7 @@ Không chia sẻ mã khôi phục hoặc mật khẩu, không chụp màn hình 
 
 - Không có trình đọc online, upload bìa, OAuth Drive hoặc quyền ghi Drive.
 - Proxy OPDS chỉ theo link cùng hostname với URL nguồn. Link sang hostname khác được giữ trực tiếp và không nhận credential đã lưu.
+- Trình quét web chỉ đi theo catalog con và phân trang cùng hostname với nguồn. Metadata sách OPDS không được lưu vào D1 và không chỉnh sửa trên web.
 - Mỗi feed nguồn được giới hạn 2 MB và thời gian kết nối 20 giây. Việc đọc sách phụ thuộc vào tình trạng máy chủ OPDS bên ngoài.
 - Không lưu database toàn bộ danh mục. Kết quả quét chỉ ở bộ nhớ trang; reload phải quét lại. Kho lớn tiêu tốn quota Drive và bộ nhớ trình duyệt.
 - Tìm/lọc **web** áp dụng trên tập đã tải; chỉ đủ toàn kho sau khi quét xong.
@@ -213,6 +217,7 @@ Sau deploy, dùng một thư mục Drive thử để kiểm tra tạo thư việ
 | Router Gateway và giao diện gốc | `src/index.ts` |
 | API quản lý, OPDS có tài khoản | `src/library.ts` |
 | Kiểm tra, mã hóa cấu hình và proxy nguồn OPDS | `src/opds-source.ts` |
+| Đọc catalog/phân trang và chuẩn hóa sách OPDS để quét | `src/opds-scan.ts` |
 | Tham chiếu mã hóa, password hash, HMAC | `src/library-security.ts` |
 | D1, kiểm tra và ghép metadata | `src/library-data.ts` |
 | Feed thư viện mới | `src/library-feed.ts` |
